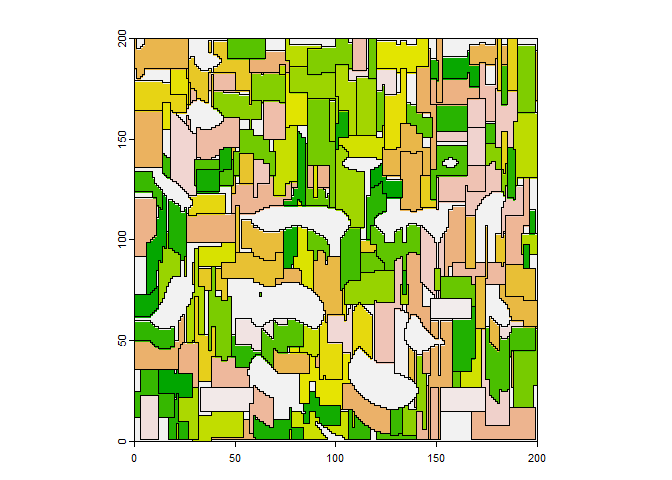
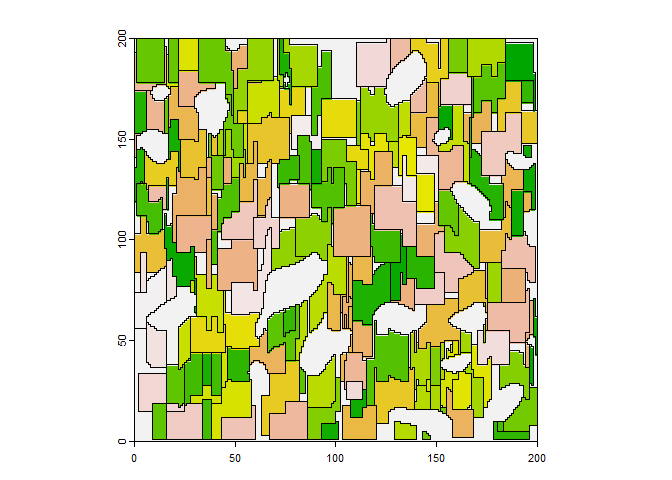
new figure for the github page

diff --git a/README.md b/README.md
@@ -45,7 +45,7 @@ output<-establish_by_place_conquer(potential_space= r,
                          mean_field_size = 300,
                          sd_field_size = 100,
                          distribution = "norm",
-                         mean_shape_index = 3,
+                         mean_shape_index = 1,
                          sd_shape_index = 0.3,
                          percent = 90,
                          assign_farmers = TRUE,
